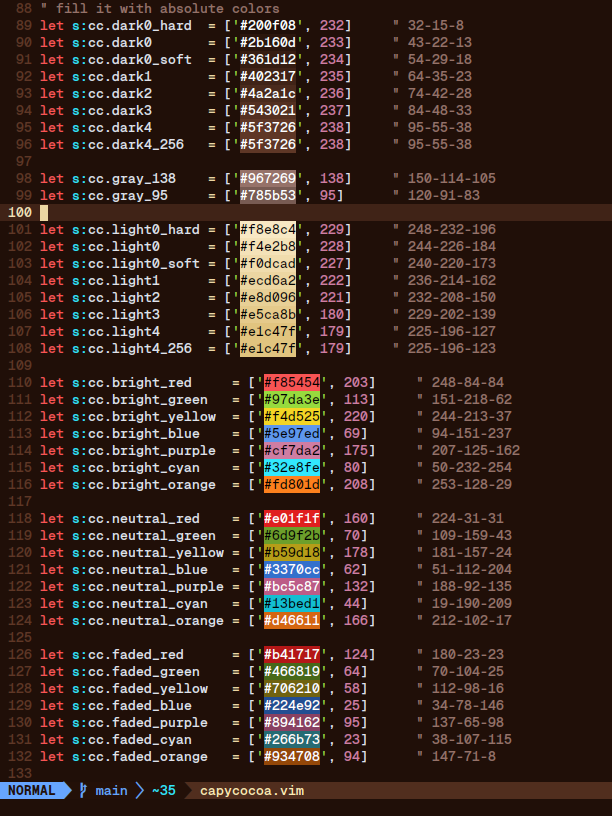
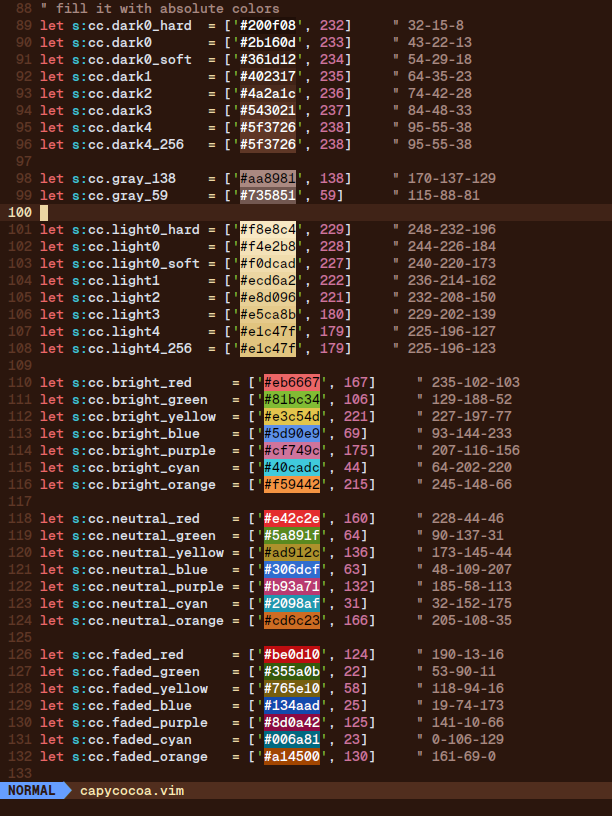
HSLuv syntax colors

diff --git a/README.md b/README.md
@@ -1,4 +1,10 @@
 <ul>
+   <li>v1.2:
+      <ul>
+         <li>compared a real piece of chocolate to my bg testing color palettes -> opted for the "HSLuv with HSL interpolation darker" palette because it looks the most natural to me</li>
+         <li>syntax colors are now based on HSLuv grading, the contrast ratio of 4.5:1 is still ensured</li>
+      </ul>
+   </li>
    <li>v1.1:
       <ul>
          <li>updated bg colors - slightly darker and lighter shades for the respective modes</li>
